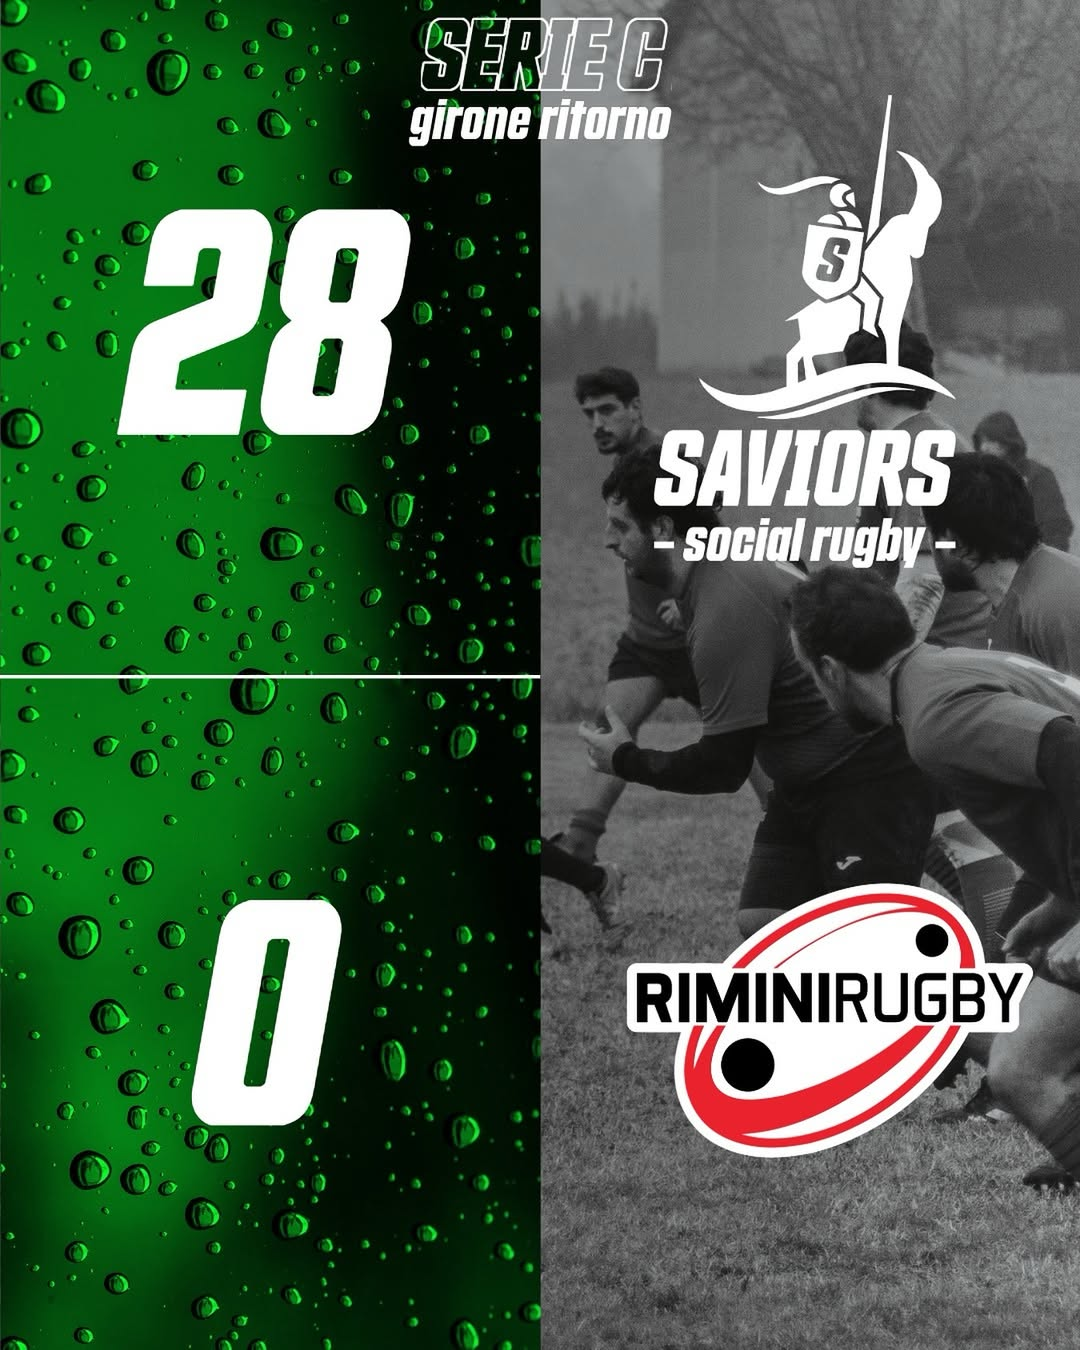
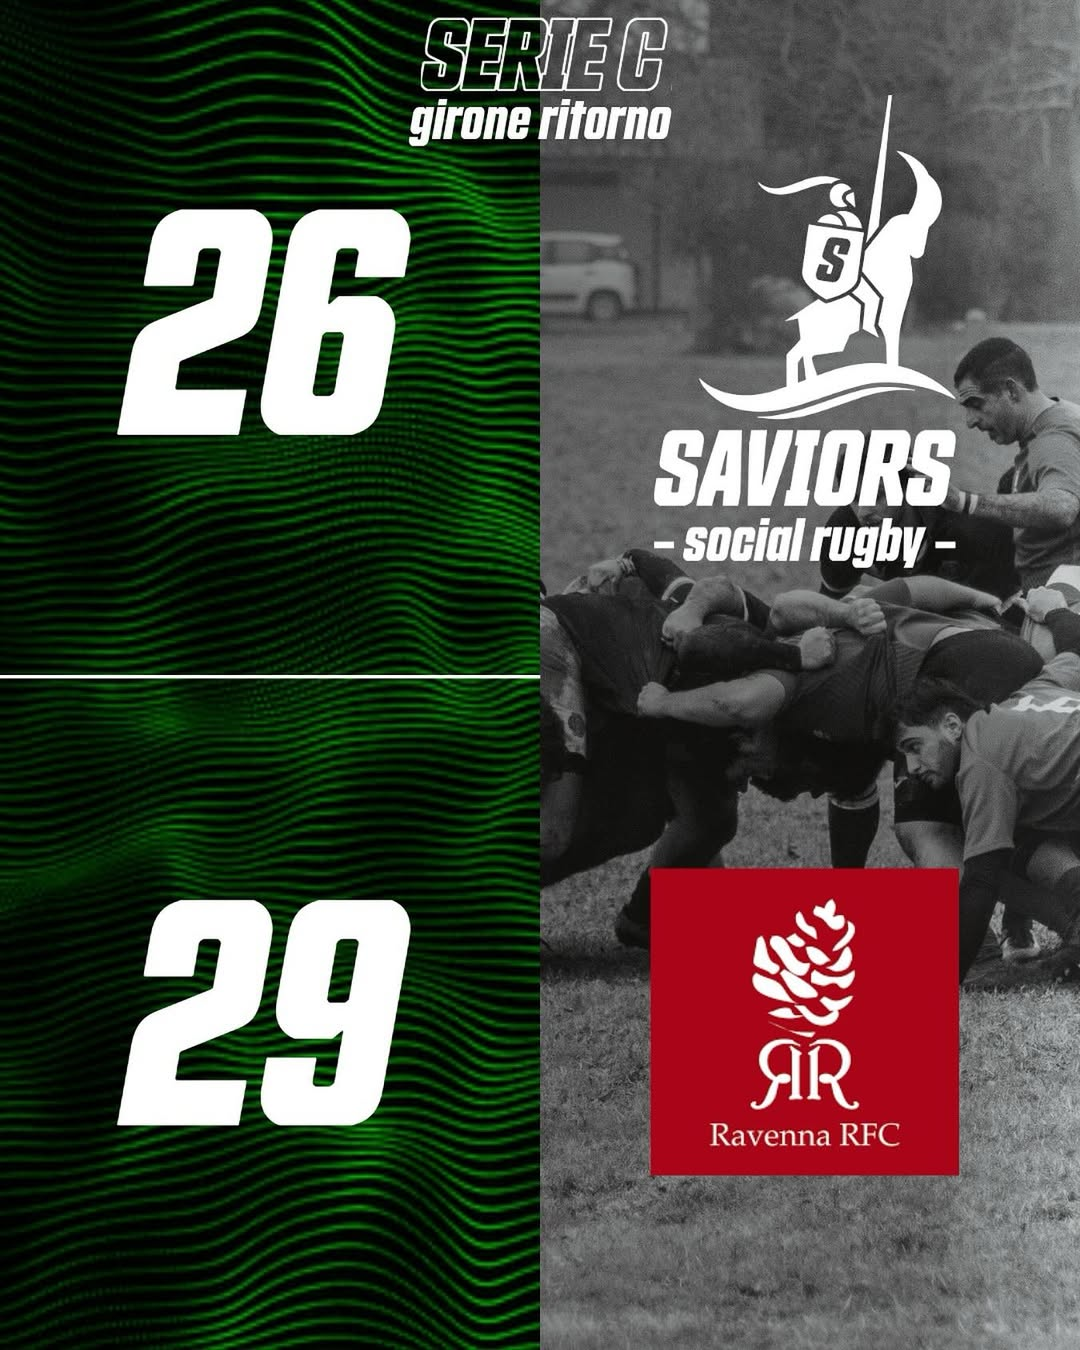
update

diff --git a/content/posts/last-match/index.md b/content/posts/last-match/index.md
@@ -1,5 +1,5 @@
 ---
-title: "Ultimo Match:<br/>Saviors Social Rugby vs ASD Rugby Rimini (28 - 0)"
+title: "Ultimo Match:<br/>Saviors Social Rugby vs Ravenna Rugby (26 - 29)"
 date: "2024-12-08"
 sharingLinks:
   - facebook
@@ -15,10 +15,35 @@ weight: 1
 hide: true
 ---
 
+Si conclude la stagione dei Saviors di Coach Vito. 💚🐐🖤
+
+Il risultato finale è a favore degli avversari di @ravennarugby, ai quali vanno i nostri complimenti per essere riusciti ad espugnare Mulino Cento dopo anni di vittorie.
+
+Il corto margine nel punteggio è la testimonianza di una partita al cardiopalma, mai scontata, e con un campo gremito di tifosi di entrambe le squadre.
+
+L'esito di questa gara avrebbe decretato il vincitore del campionato: nessuna esclusione di colpi.
+
+Gli avversari si posizionano oltre break per gran parte della partita giocando cinicamente e sfruttando ogni occasione. I Saviors non si fanno prendere dallo sconforto e giocano tutta la partita senza mai perdere la calma e in maniera ordinata. La rimonta arriva nel secondo tempo con la quarta meta, e punto bonus offensivo. Negli ultimi attimi, tuttavia, il Ravenna marca l’ultima pesante meta tornando in vantaggio.
+Risultato finale: 26-29
+
+Ravenna vince la partita.
+
++5 punti in classifica per il Ravenna
++2 punti per i Saviors (bonus offensivo e difensivo)
+
+Classifica finale:
+Saviors 44
+Ravenna 43
+
+Nonostante l’amara sconfitta
+i Saviors vincono il campionato.🥇
+
+FORZA SAVIORS SEMPRE 💚🐐🖤
+
 ![](./featured.jpg)
 
 | Giornata   | Data       | Orario | Casa                         | Ospiti           | Indirizzo                               |
 | ---------- | ---------- | ------ | ---------------------------- | ---------------- | --------------------------------------- |
-| 6ᵃ Ritorno | 27/04/2025 | 15:30  | **Saviors Social Rugby ASD** | Ravenna Rugby FC | Via Roversano 2815, 47522 - Cesena (FC) |
+| 7ᵃ Ritorno | 04/05/2025 | 15:30  | **Saviors Social Rugby ASD** | Ravenna Rugby FC | Via Roversano 2815, 47522 - Cesena (FC) |
 
 ![](./team.jpg)

diff --git a/content/posts/next-match/index.md b/content/posts/next-match/index.md
@@ -1,4 +1,4 @@
----
+<!-- ---
 title: "Prossimo Match:<br/>Saviors Social Rugby vs Ravenna Rugby"
 date: "2024-12-08"
 sharingLinks:
@@ -21,4 +21,4 @@ hide: true
 | ---------- | ---------- | ------ | ---------------------------- | ---------------- | --------------------------------------- |
 | 7ᵃ Ritorno | 04/05/2025 | 15:30  | **Saviors Social Rugby ASD** | Ravenna Rugby FC | Via Roversano 2815, 47522 - Cesena (FC) |
 
-![](./featured.jpg)
+![](./featured.jpg) -->
